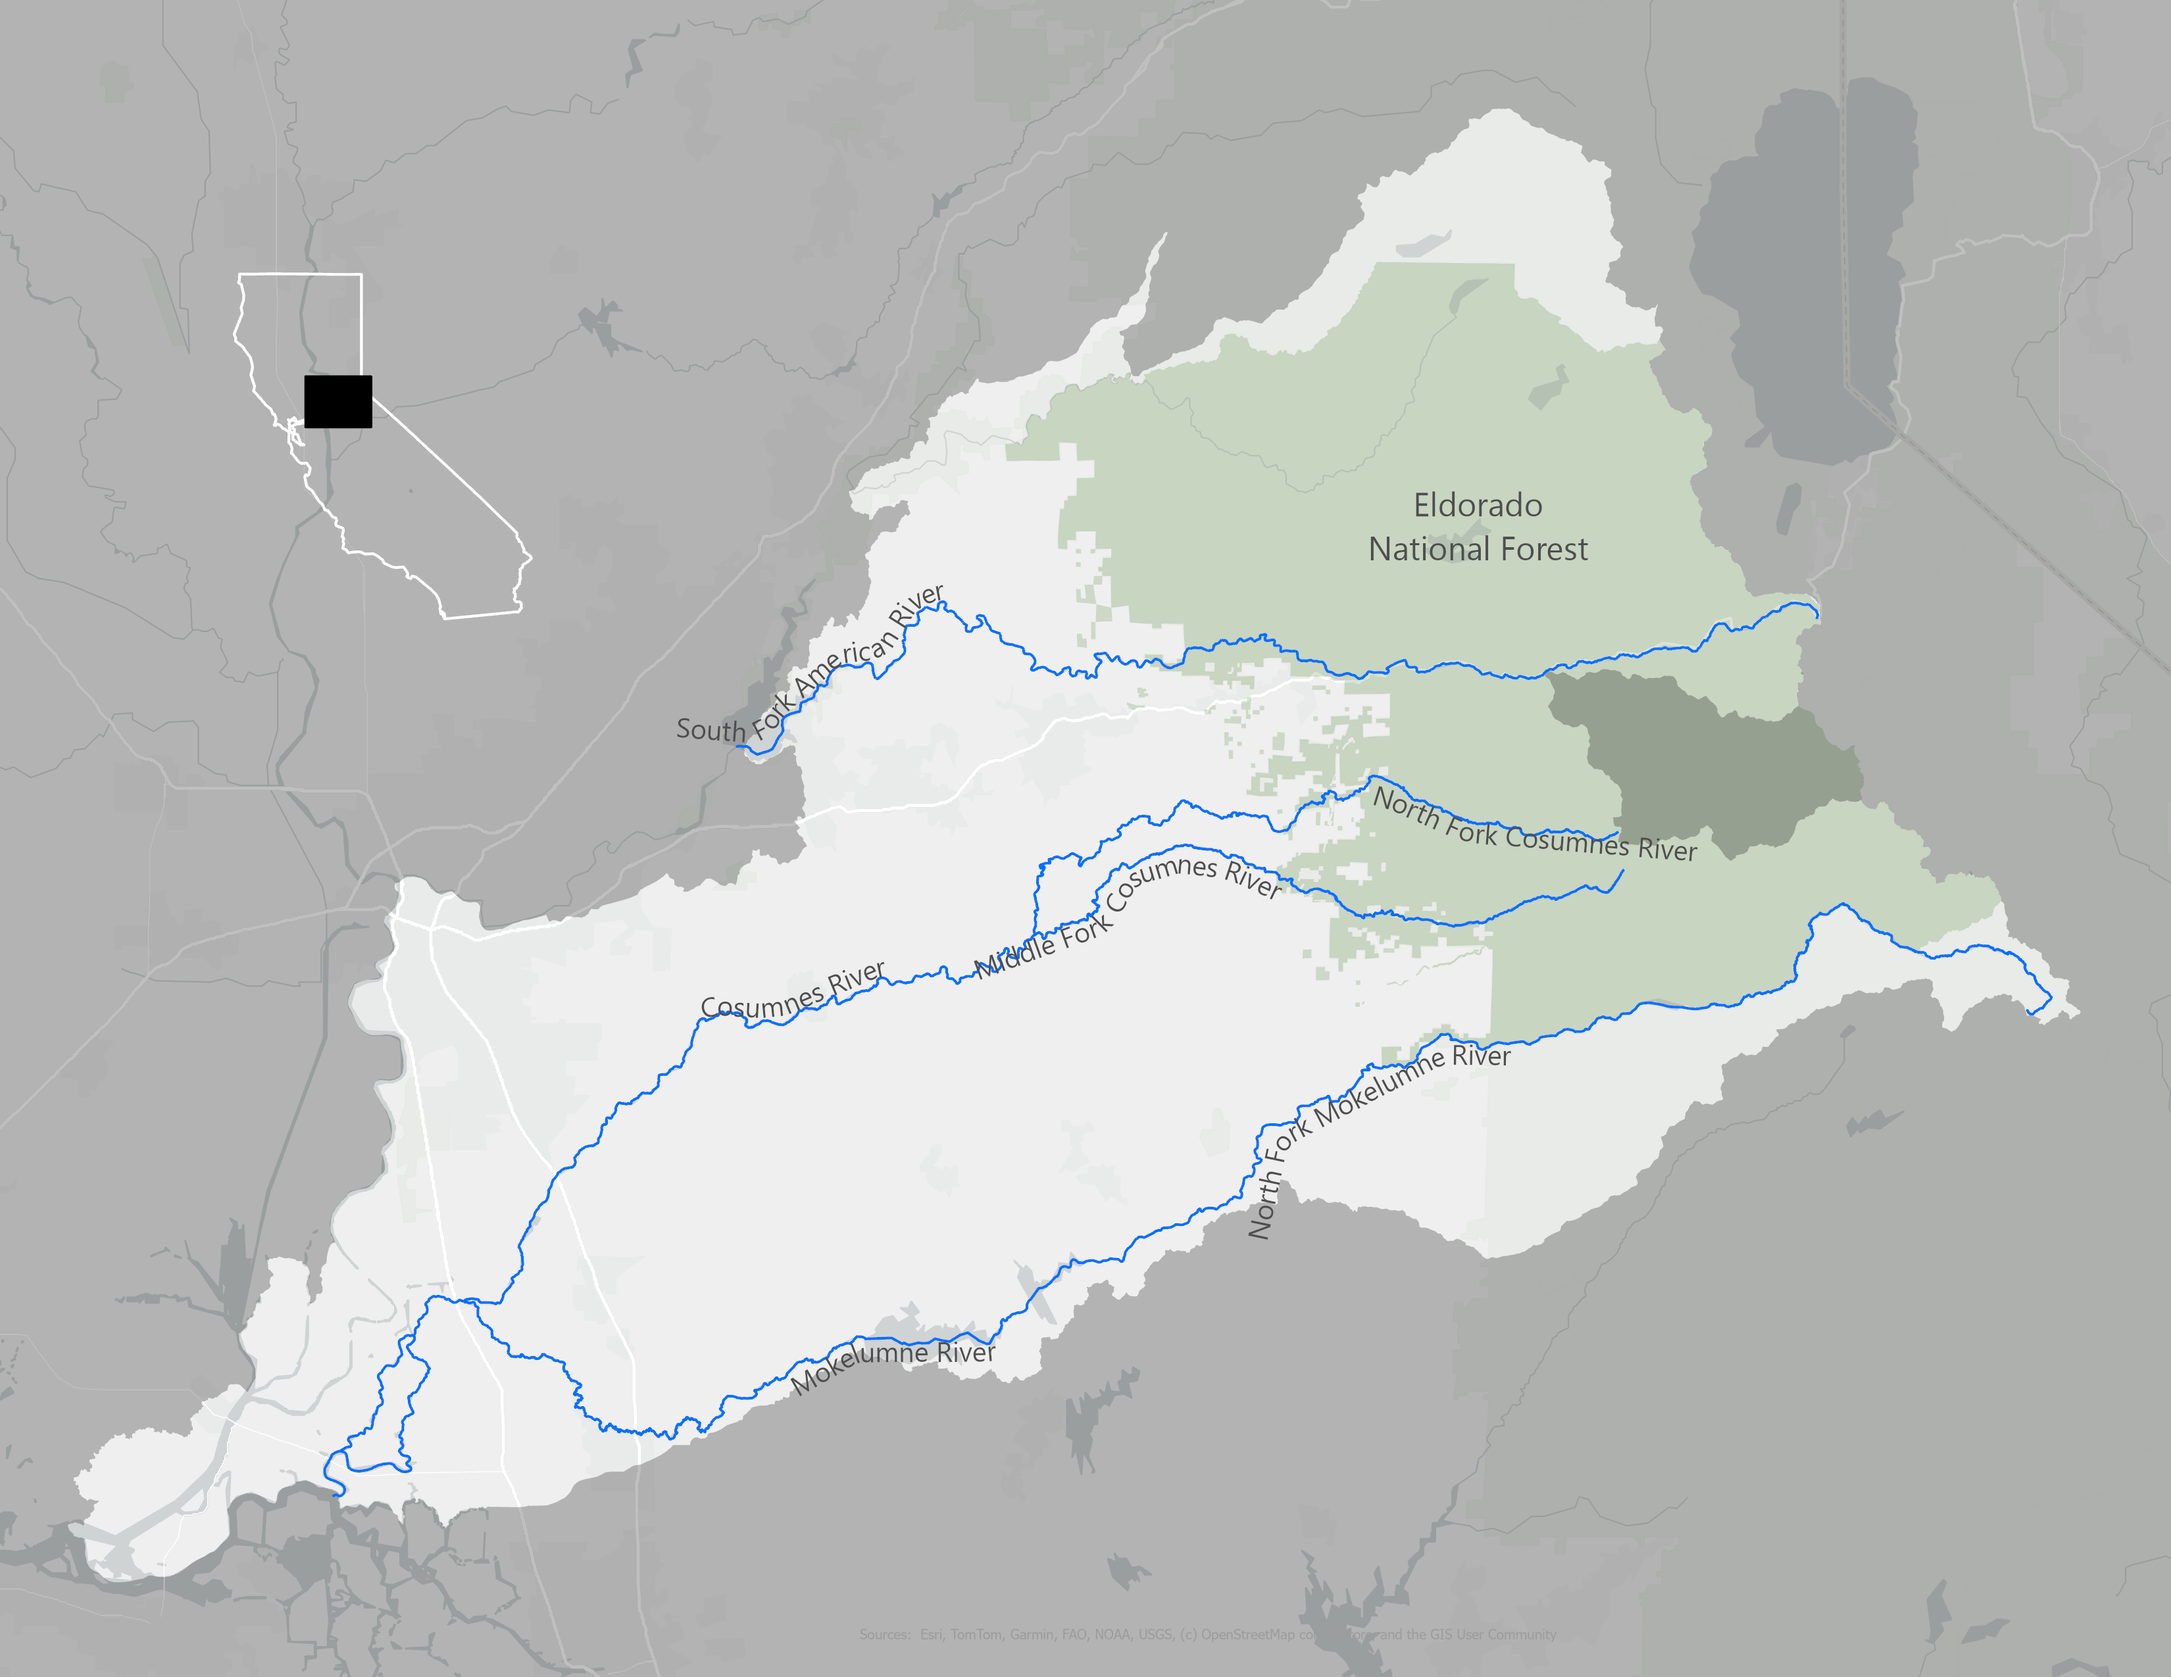
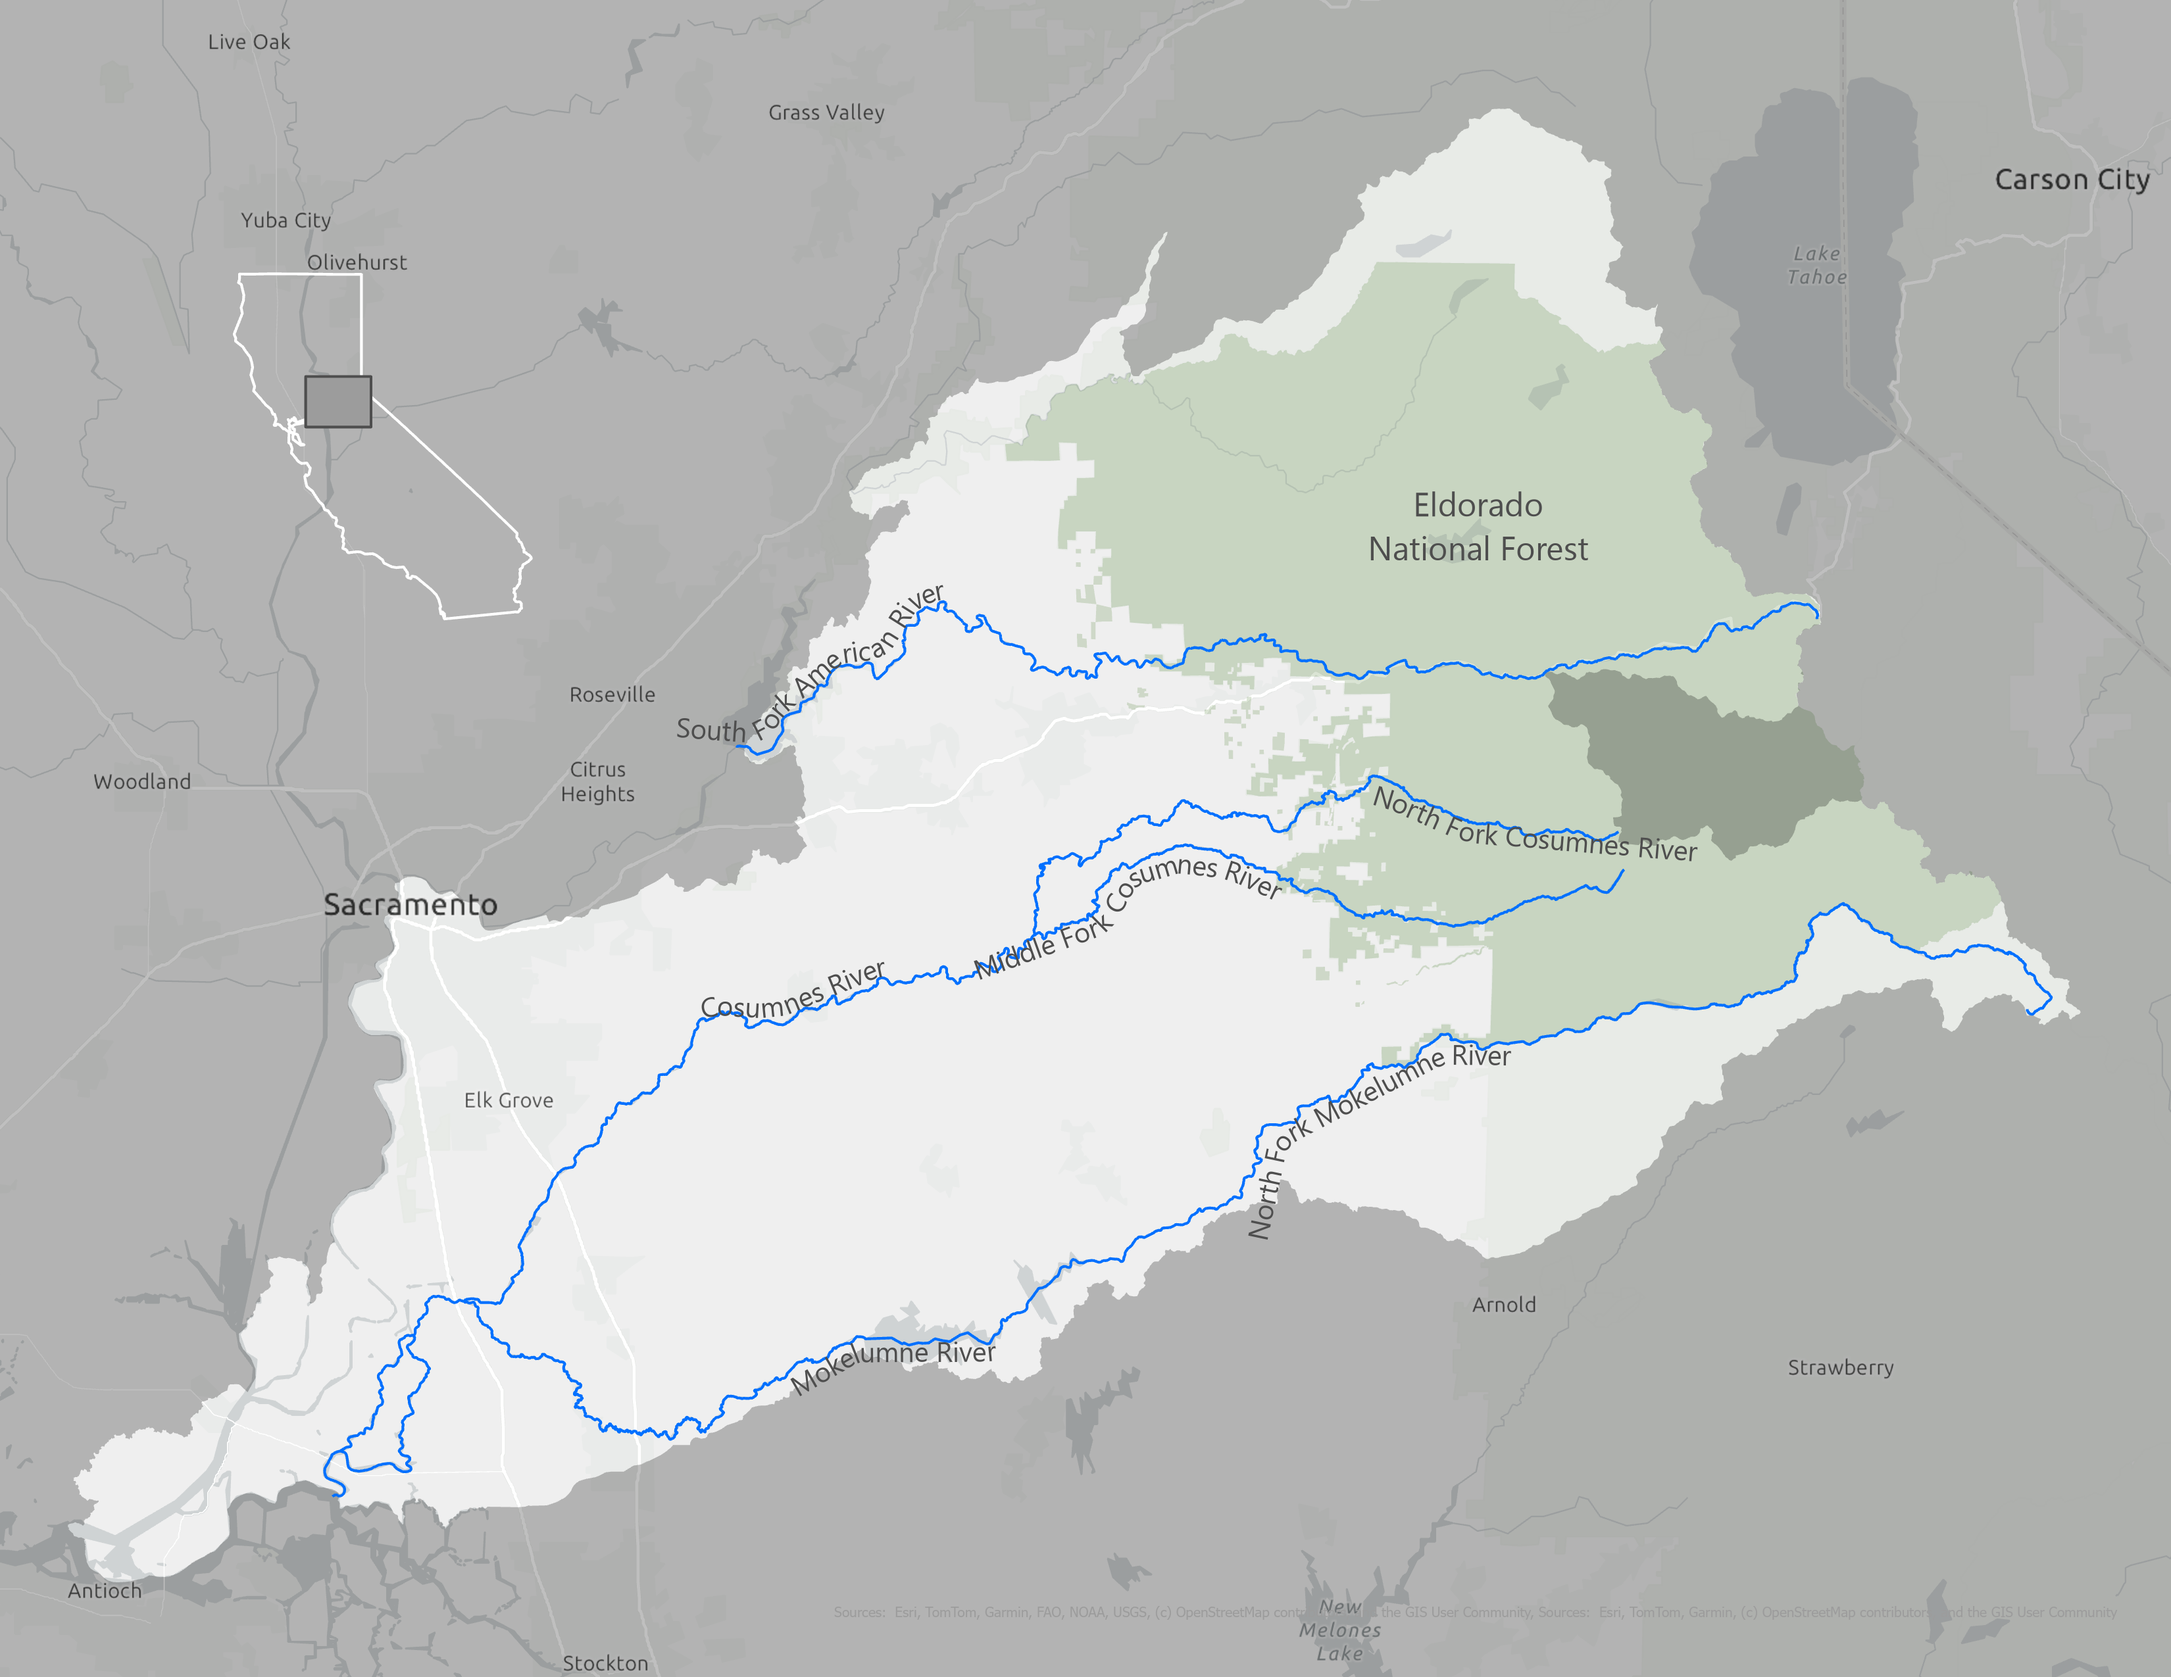
updated wob and help maps

diff --git a/index.html b/index.html
@@ -206,7 +206,7 @@
                         <img src="assets/helpaoi.png" alt="HELP Area of Interest Map" class="img-fluid rounded shadow my-4" style="max-width: 70%; height: auto; display: inline-block;">
                         <p class="text-white-75 mb-4">
                             The Healthy Eldorado Partnership (HELP) is intended to buttress the Eldorado National Forest Resilience Strategy while
-                            taking aim at the impediments standing in the way of landscape-scale restoration. The partnership works across the Eldorado National Forest in the watersheds shown in gray (see map above). In addition to leveraging financial resources, HELP will address constraints surrounding workforce attrition, sawmill and biomass utilization operational capacity, planning resources, and acquisition of the physical equipment to make the transformational changes needed to build an ecologically and economically resilient landscape through a sustainable proactive forest and watershed management. <br><br>Check out this video on Restoring Landscape Resilience in Crystal Basin
+                            taking aim at the impediments standing in the way of landscape-scale restoration. The partnership works across the Eldorado National Forest in the labelled watersheds (American, Cosumnes, Mokelumne). In addition to leveraging financial resources, HELP will address constraints surrounding workforce attrition, sawmill and biomass utilization operational capacity, planning resources, and acquisition of the physical equipment to make the transformational changes needed to build an ecologically and economically resilient landscape through a sustainable proactive forest and watershed management. <br><br>Check out this video on Restoring Landscape Resilience in Crystal Basin
                         </p>
                         <div class="text-center my-4">
                             <iframe width="800" height="500" src="https://www.youtube.com/embed/W-cNA2pgKWo" title="Restoring Landscape Resilience in Crystal Basin" frameborder="0" allow="accelerometer; autoplay; clipboard-write; encrypted-media; gyroscope; picture-in-picture; web-share" allowfullscreen style="max-width: 100%;"></iframe>
